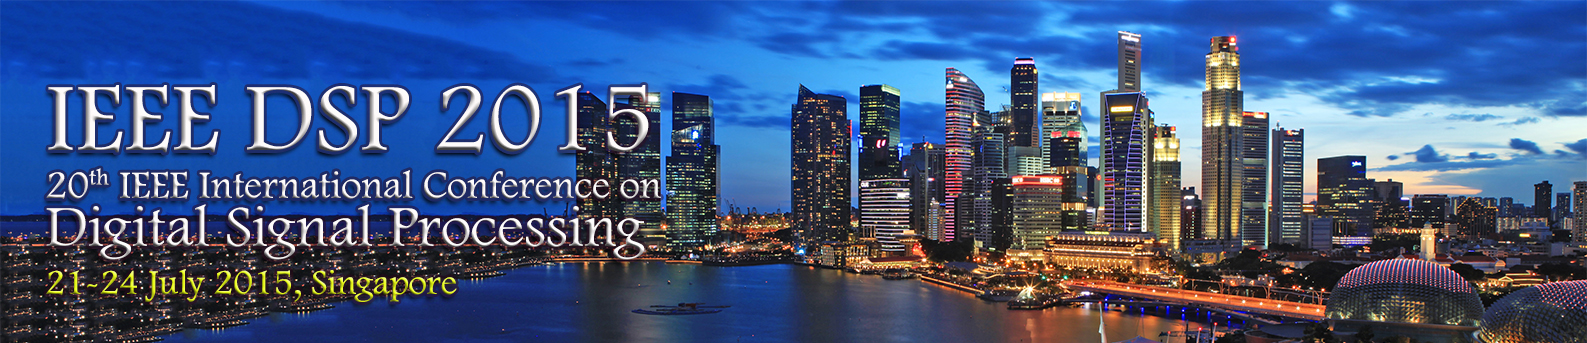
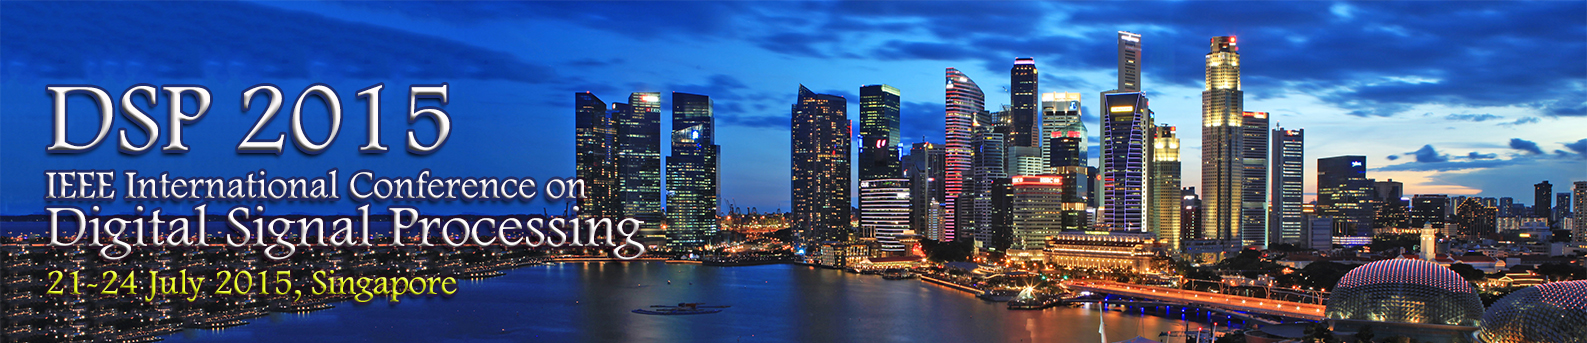
correction

Changed region(s): [[0.0309, 0.2332, 0.4323, 0.4665], [0.0309, 0.4956, 0.4323, 0.6122]]

diff --git a/index.html b/index.html
@@ -9,7 +9,7 @@
     <meta name="description" content="Official Website for 2015 20th International Conference on Digital Signal Processing (DSP 2015)">
     <meta name="author" content="Kai Liu">
 
-    <title>20th DSP 2015</title>
+    <title>DSP 2015</title>
 
     <!-- Bootstrap Core CSS -->
     <link href="css/bootstrap.min.css" rel="stylesheet">
@@ -162,8 +162,8 @@
         <div id="page-wrapper">
             <div class="row">
                 <div class="col-lg-12" style="padding: 0px;">
-                    <h3 class="page-header" style="padding: 0px;border: 0px;margin-bottom: 0px;">IEEE DSP 2015</h3>
-					<h3 class="page-header" style="margin-top: 0px;">20th IEEE International conference on Digital Signal Processing (DSP)</h3>
+                    <h3 class="page-header" style="padding: 0px;border: 0px;margin-bottom: 0px;">DSP 2015</h3>
+					<h3 class="page-header" style="margin-top: 0px;">IEEE International conference on </br>Digital Signal Processing (DSP)</h3>
 				</div>
                 <!-- /.col-lg-12 -->
             </div>

diff --git a/specialsession.html b/specialsession.html
@@ -9,7 +9,7 @@
     <meta name="description" content="Official Website for 2015 20th International Conference on Digital Signal Processing (DSP 2015)">
     <meta name="author" content="Kai Liu">
 
-    <title>20th DSP 2015</title>
+    <title>DSP 2015 - Special Sessions Proposals</title>
 
     <!-- Bootstrap Core CSS -->
     <link href="css/bootstrap.min.css" rel="stylesheet">

diff --git a/orgnizingcommittee.html b/orgnizingcommittee.html
@@ -9,7 +9,7 @@
     <meta name="description" content="Official Website for 2015 20th International Conference on Digital Signal Processing (DSP 2015)">
     <meta name="author" content="Kai Liu">
 
-    <title>20th DSP 2015</title>
+    <title>DSP 2015 - Organizing Committee</title>
 
     <!-- Bootstrap Core CSS -->
     <link href="css/bootstrap.min.css" rel="stylesheet">

diff --git a/callforpapers.html b/callforpapers.html
@@ -9,7 +9,7 @@
     <meta name="description" content="Official Website for 2015 20th International Conference on Digital Signal Processing (DSP 2015)">
     <meta name="author" content="Kai Liu">
 
-    <title>20th DSP 2015</title>
+    <title>DSP 2015 - Call for Papers</title>
 
     <!-- Bootstrap Core CSS -->
     <link href="css/bootstrap.min.css" rel="stylesheet">

diff --git a/wip.html b/wip.html
@@ -9,7 +9,7 @@
     <meta name="description" content="Official Website for 2015 20th International Conference on Digital Signal Processing (DSP 2015)">
     <meta name="author" content="Kai Liu">
 
-    <title>20th DSP 2015</title>
+    <title>DSP 2015</title>
 
     <!-- Bootstrap Core CSS -->
     <link href="css/bootstrap.min.css" rel="stylesheet">
